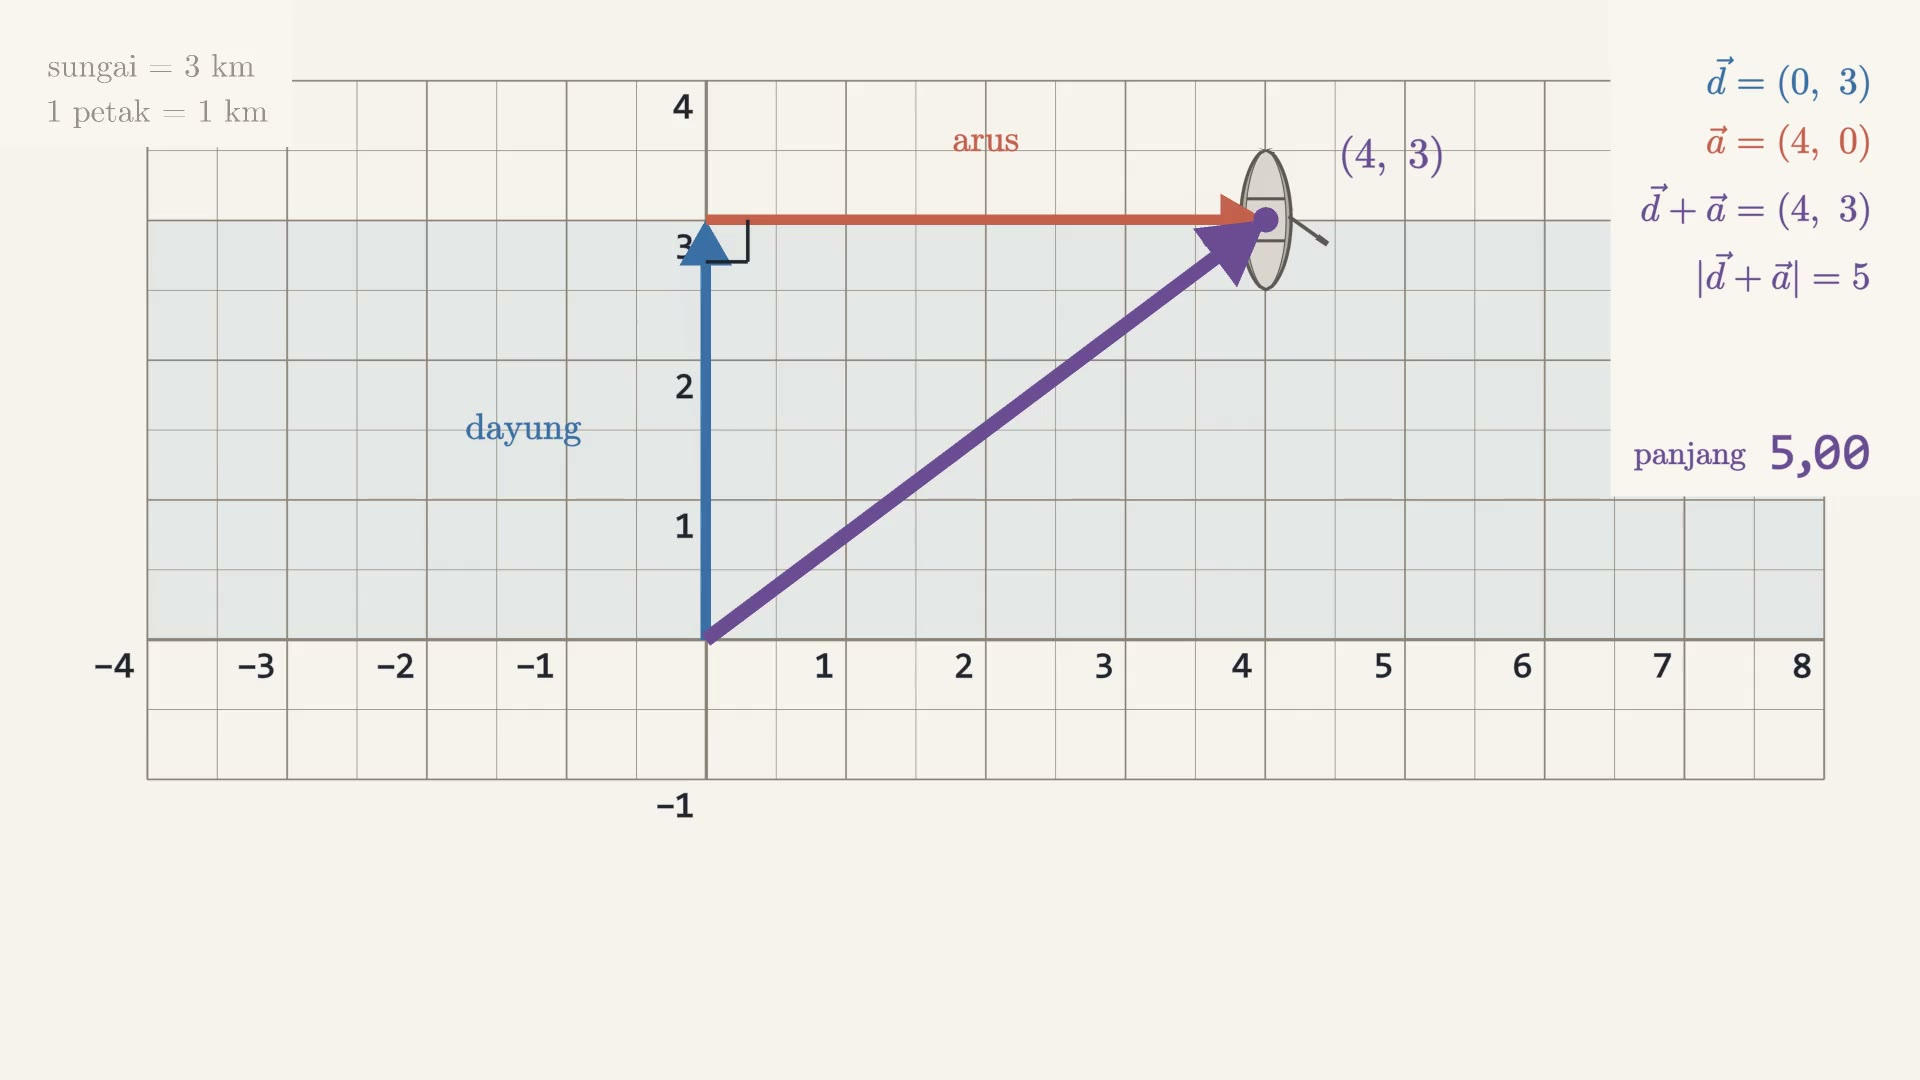
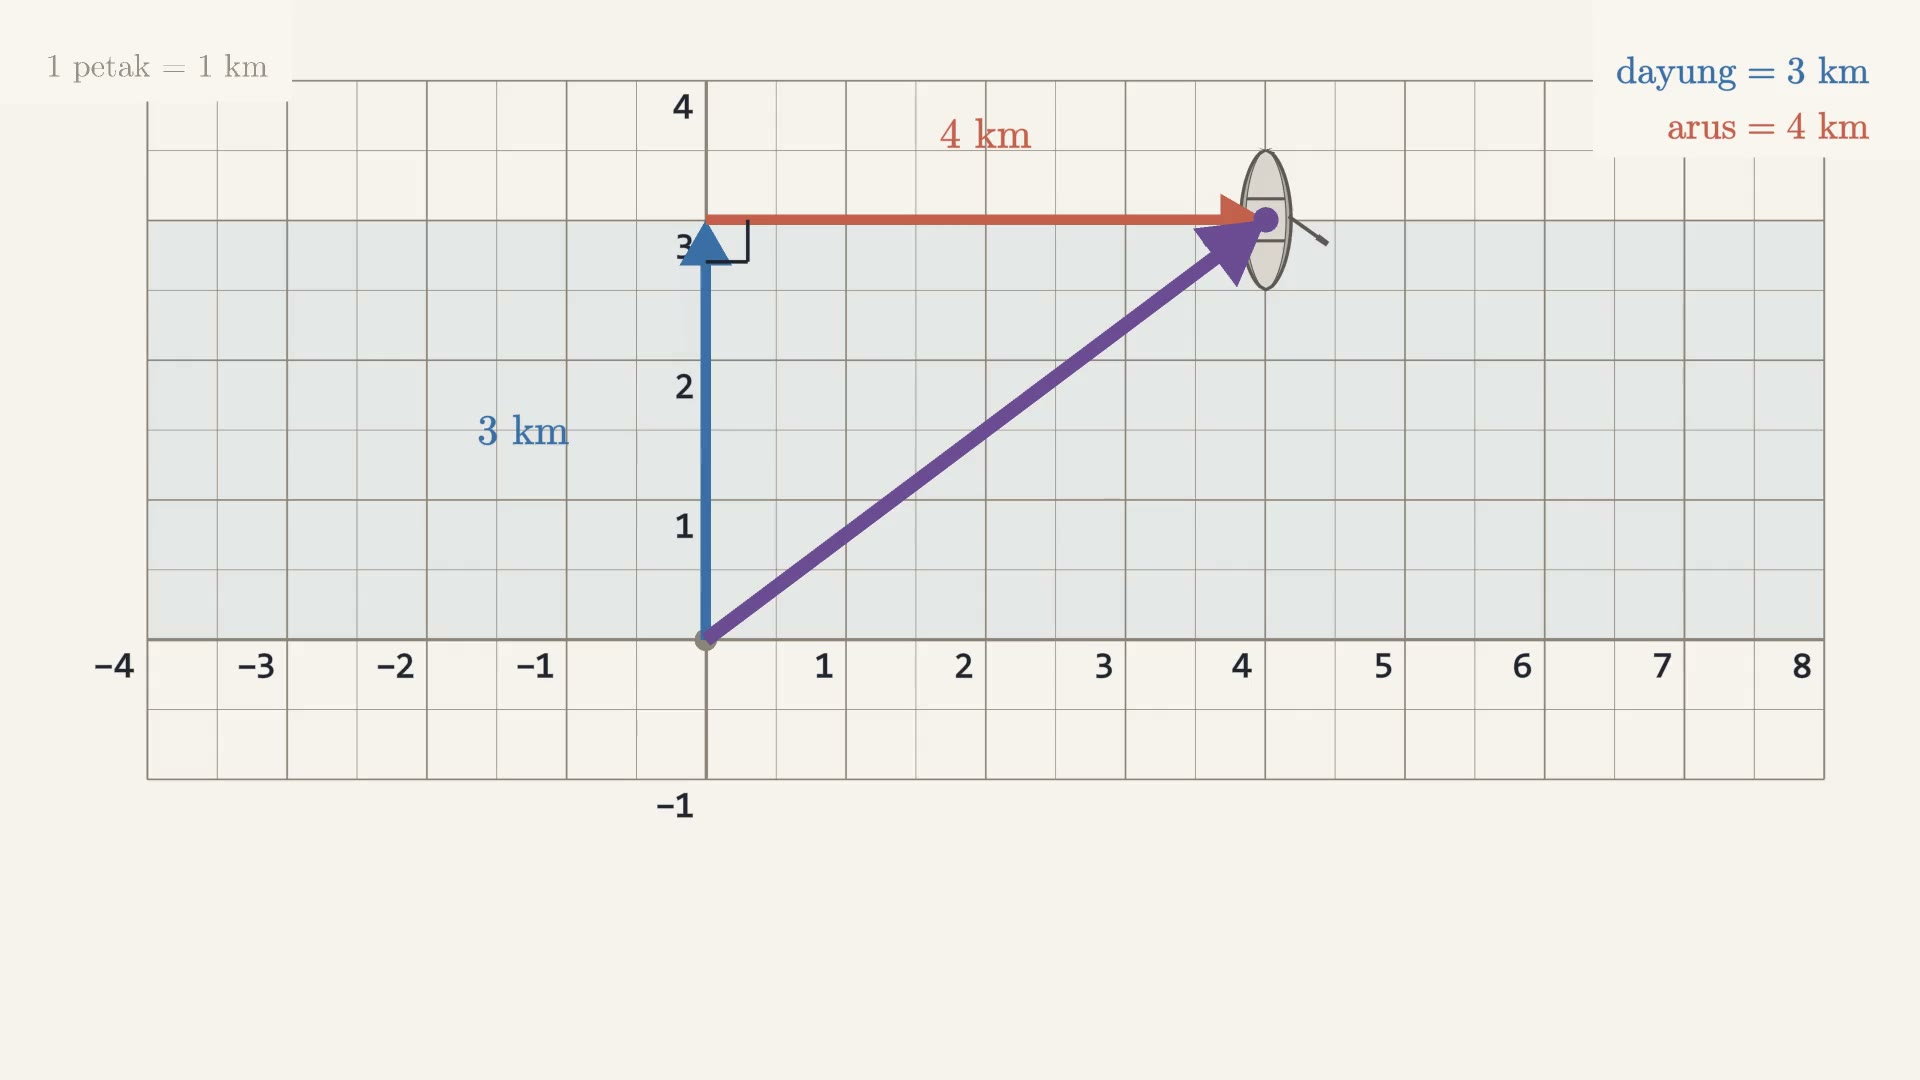
Video Materi 01 standar v3 selesai: 4 menit 56 detik, empat cacat lembar kontak diperbaiki
Render 1080p60 pertama lolos semua gerbang otomatis, tetapi lembar kontaknya
memperlihatkan empat cacat. Keempatnya diperbaiki dan videonya dirender ulang:

1. Layar kosong 2,5 detik pada detik 229,5 (alat/cek_layar_kosong.py). Kalimat
   "besaran yang butuh arah SEPERTI INI" menunjuk panah yang masih di layar,
   jadi layar tidak boleh dibersihkan pada kata pertama. Sekarang lolos.
2. Perahu 3D terbaca sebagai serpih putih dan tiga frame pertama isinya air.
   Bingkai kamera 2,8 satuan (dulu 4,4), kemiringan 62 derajat (dulu 68).
3. Label "3 km" duduk di jalur angka sumbu tegak saat dayung diputar, terbaca
   "3 km2". Yang diperbesar JARAKNYA dari panah, bukan sisinya: menukar sisi
   membuat label meloncat 1,8 satuan di tengah putaran.
4. Warna dua langkah pada peraga penutup terbalik dari kesepakatan proyek
   (web/lib/warna.ts: mendatar biru, tegak merah) sehingga peraga "berikutnya"
   membantah video Materi 03 yang dijanjikannya.

Sekalian: kalimat "Perahu di layar ini yang akan menjawabnya" dipindah dari
segmen buka ke terbang, sebab kamera dulu turun pada detik 3,3 padahal narator
baru berkata "kita lihat dari atas" pada detik 9,2. Sekarang 3D berdiri sendiri
4,3 detik lalu turun tepat pada kalimatnya, dan air 3D ditukar pita sungai,
bukan dibiarkan memenuhi layar sebagai dinding garis biru tanpa tepian.

Hasil: 91 pemicu kata, terlambat terbesar 0,033 detik (batas 0,15).
mp4 tidak dilacak git. Letaknya: media/vektor1-perahu.mp4 (1080p60, 9,75 MB),
[…]

diff --git a/manim/scenes/vektor1_perahu.py b/manim/scenes/vektor1_perahu.py
@@ -693,9 +693,13 @@ class PerahuVektor(AdeganMatra):
         pj = np.array([-1.9, -0.55, 0.0])
         panah_janji = Arrow(pj, pj + np.array([2.6, 1.4, 0.0]), buff=0,
                             thickness=5).set_color(SOROT).fix_in_frame()
-        langkah1 = Line(pj, pj + np.array([2.6, 0.0, 0.0])).set_stroke(AKSEN, 4).fix_in_frame()
+        # Mendatar BIRU, tegak MERAH: kesepakatan warna proyek (`web/lib/warna.ts`,
+        # `samping` biru untuk sumbu x, `depan` merah untuk sumbu y), dipakai
+        # widget `pecah-komponen` dan video Materi 03. Versi pertama gambar ini
+        # menukar keduanya, jadi peraga "berikutnya" membantah video berikutnya.
+        langkah1 = Line(pj, pj + np.array([2.6, 0.0, 0.0])).set_stroke(AKSEN2, 4).fix_in_frame()
         langkah2 = Line(pj + np.array([2.6, 0.0, 0.0]), pj + np.array([2.6, 1.4, 0.0]))
-        langkah2.set_stroke(AKSEN2, 4).fix_in_frame()
+        langkah2.set_stroke(AKSEN, 4).fix_in_frame()
         janji = VGroup(panah_janji, langkah1, langkah2)
 
         with sinema.babak(self, "tutup1", DURASI, kata=KATA) as b:

diff --git a/manim/scenes/vektor3_komponen.py b/manim/scenes/vektor3_komponen.py
@@ -165,9 +165,13 @@ class PecahJadiKomponen(AdeganMatra):
         self.gerbang()
 
         # Sepuluh panah kecil: kenapa menggambar satu per satu melelahkan.
+        # SEPULUH, sebab naratornya berkata sepuluh. Siswa yang teliti menghitung
+        # panah di layar, dan gambar yang membantah narasinya sendiri lebih
+        # merusak daripada gambar yang membosankan.
         acak = [((-3, 0), (-1, 1)), ((-3, 4), (-2, 5)), ((-1, 4), (1, 5)),
                 ((2, 5), (4, 5)), ((5, 1), (5, 3)), ((1, -1), (3, 0)),
-                ((-2, 1), (-1, 3)), ((4, -1), (5, 0))]
+                ((-2, 1), (-1, 3)), ((4, -1), (5, 0)),
+                ((-4, 3), (-3, 4)), ((4, 4), (5, 5))]
         banyak = VGroup(*[panah([a[0], a[1], Z], [c[0], c[1], Z], REDUP, tebal=3)
                           for a, c in acak])
 
